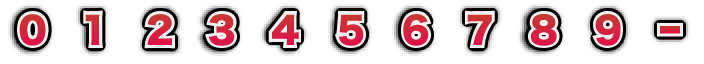
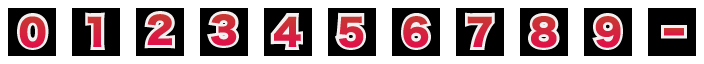
NUMBER_MESH_INTERVALの値を72から90に変更

diff --git a/src/js/game/game-object/predicated-damage/view/predicated-damage-view.ts b/src/js/game/game-object/predicated-damage/view/predicated-damage-view.ts
@@ -21,7 +21,7 @@ const NUMBER_SIZE_SCALE = 0.7;
 const NUMBER_MESH_SIZE = 128 * NUMBER_SIZE_SCALE;
 
 /** 数字メッシュ間隔 */
-const NUMBER_MESH_INTERVAL = 72 * NUMBER_SIZE_SCALE;
+const NUMBER_MESH_INTERVAL = 90 * NUMBER_SIZE_SCALE;
 
 /** 数字表示に必要な最大文字数（マイナス符号含む） */
 const MAX_NUMBER_CHARACTERS = 5;
